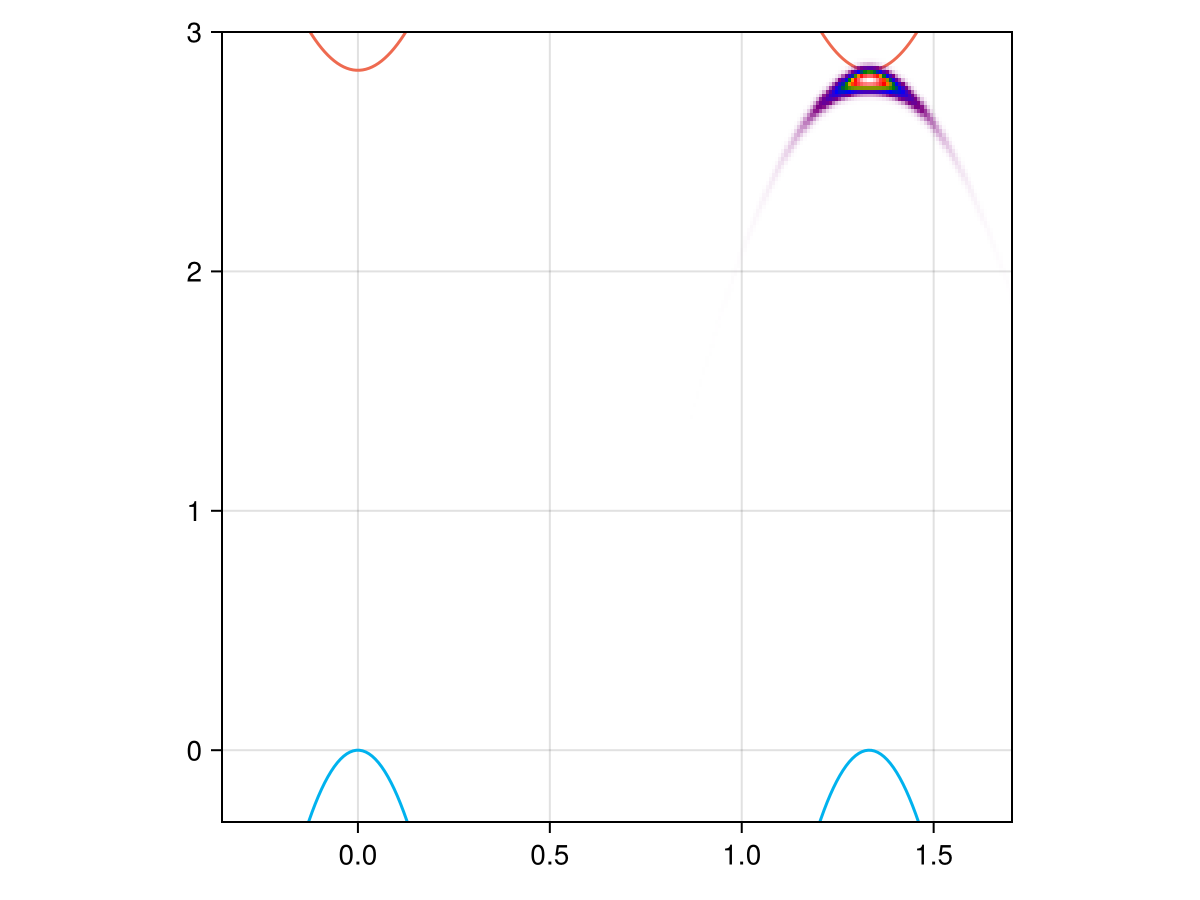
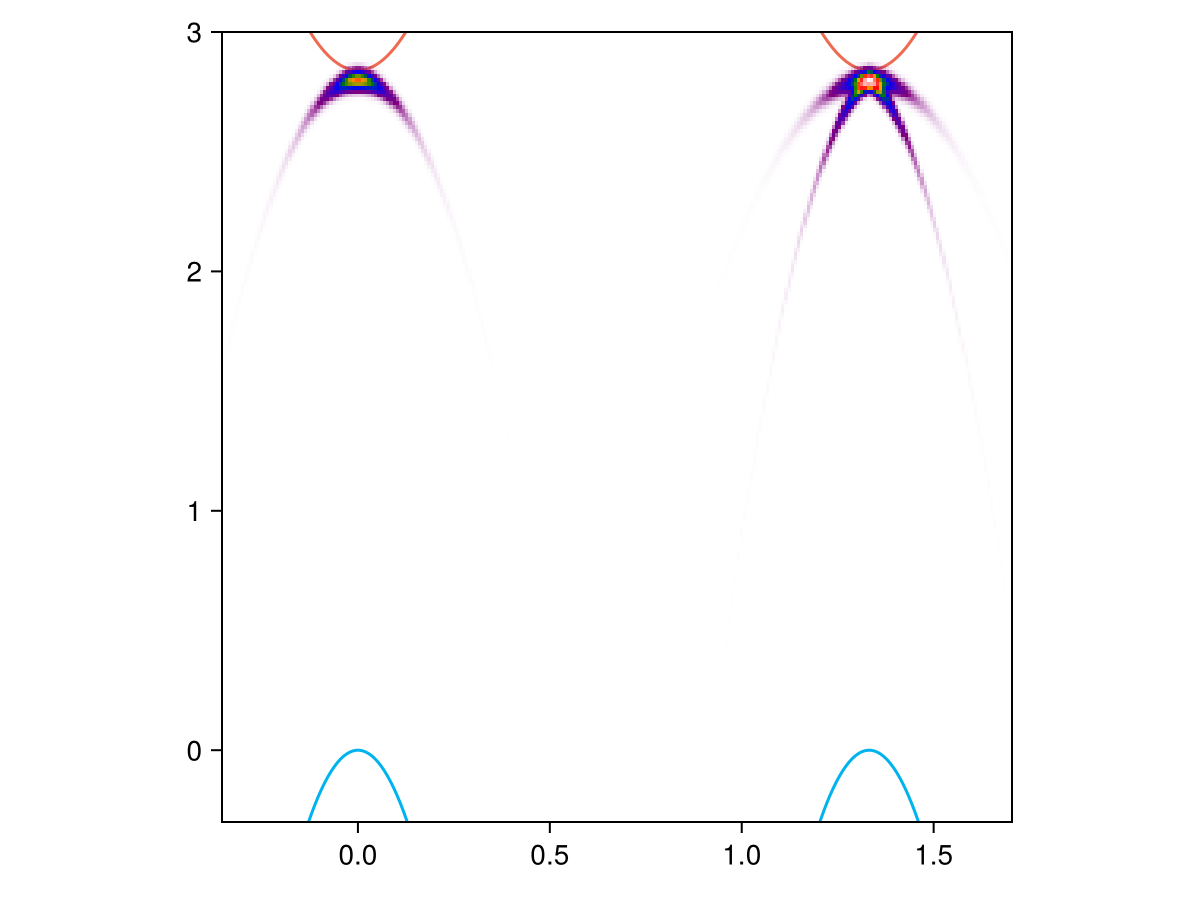
update eeh case

diff --git a/simplified/benchmarks.md b/simplified/benchmarks.md
@@ -24,9 +24,10 @@ and reliable predictions of the effective masses need
 1. A large number of empty bands, and 
 2. a large cutoff energy, and 
 3. $G_1 W_0$ self-consistency.
+Following this protocol they get some smaller effective masses, listed in [`constants.md`](constants.md).
 
 In the benchmark in [`broadened-bands.jl`](broadened-bands.jl),
-however, the first-principles calculation we use is indeed a not fully converged $G_0 W_0$ calculation,
+the first-principles calculation we use is indeed a not fully converged $G_0 W_0$ calculation,
 which seems to be consistent with the conditions in [PRB 86,115409 (2012)](https://journals.aps.org/prb/pdf/10.1103/PhysRevB.86.115409).
 
 One possible issue is that our calculation is more converged in the sense that
@@ -34,13 +35,13 @@ in our calculation, the k-grid used is 24 24 1 and the number of empty bands is 
 (actually it's 6000, but our calculation considers SOC,
 while [PRL 111,216805 (2013)](https://journals.aps.org/prl/pdf/10.1103/PhysRevLett.111.216805) doesn't,
 so essentially the number of bands the latter uses is twice as many as the number of bands in our calculation).
-So possibly, a difference between the curvatures in [PRB 86,115409 (2012)](https://journals.aps.org/prb/pdf/10.1103/PhysRevB.86.115409) and in our calculation is still there,
+So possibly, we should expect differences betwee [PRB 86,115409 (2012)](https://journals.aps.org/prb/pdf/10.1103/PhysRevB.86.115409) and our calculation, 
 and if the bands calculated according to the effective masses in the former 
-and the bands calculated in the latter are identical,
-then actually we are *wrong* in how we treat the two-band model.
+and the bands calculated in the latter are indeed identical,
+then something else is *wrong*. 
 We do note that the usual problem of underconvergence is the size of the band gap;
 on the other hand, the structure of the wave functions at the valleys can change drastically when we change the momentum,
-so it's conceivable that self-consistency mode is more important in determining the effective mass,
+so it's conceivable that self-consistency mode is the main factor in changing the effective mass,
 which then means we shouldn't worry too much about convergence.
 
 Going back to the benchmark, by running [`broadened-bands.jl`](broadened-bands.jl) 

diff --git a/simplified/trion-to-exciton.md b/simplified/trion-to-exciton.md
@@ -1,0 +1,32 @@
+ARPES spectrum of trion, with discrete excitonic final states
+===========
+
+# With a single exciton state 
+
+Run [`eeh-heatmap-prototype-discrete-final-single-exciton.jl`](eeh-heatmap-prototype-discrete-final-single-exciton.jl),
+and we get the follows:
+
+![](eeh-heatmap-prototype-discrete-final-single-exciton.png)
+
+Note the function invocation takes the following form:
+```julia
+Akω_total = trion_ARPES_eeh(trion, P, Ak1k2, IntraValley2DExciton, [exciton_direct], [Avck_A1s_bright], [rk], k1_list, ω_list, broaden)
+```
+Here we have a caveat related to the language features of Julia.
+The array `[exciton_direct]` can be enriched by other types of excitons,
+and they make up an array of things with a shared abstract type only.
+This in turn means we have to pass the shared type (here it's a concrete type `IntraValley2DExciton`, but it can be an abstract type) to the function.
+
+To make sure the exciton wave function is read properly,
+we also draw what we read from the exciton eigenvectors file:
+
+![](exciton-patch.png)
+
+# The linear-parabolic splitting
+
+Run [`exciton-band-gamma-Qiu-data.jl`](exciton-band-gamma-Qiu-data.jl),
+we get 
+
+![](exciton-bands.png)
+
+This means the solver works as expected.

diff --git a/simplified/README.md b/simplified/README.md
@@ -5,6 +5,7 @@
 - [Exciton ARPES heatmaps](excitons.md)
 - [Analysis of the contribution of each $\vb{k}_1$ to the ARPES signature of a ehh trion](ehh-k1-contribution.md)
 - [Analysis of the contribution of each $\vb{k}_1$ and $\vb{k}_2$ to the ARPES signature of a eeh trion](eeh-k-contribution.md)
+- [Trion ARPES spectrum with discrete excitonic final states](trion-to-exciton.md)
 
 # Figures for the paper
 
